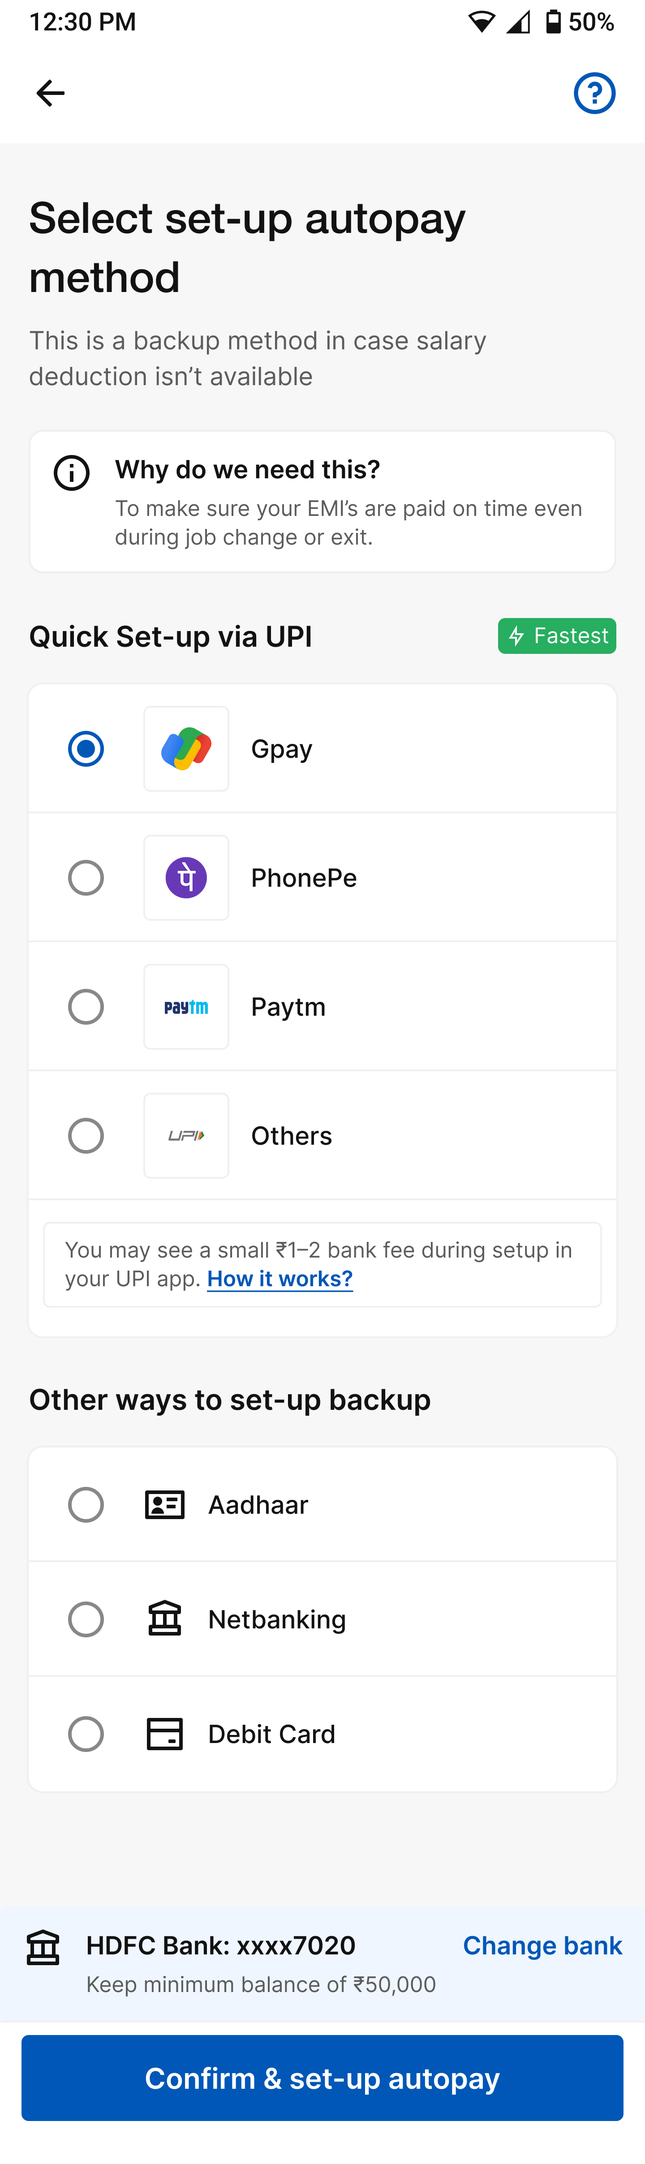
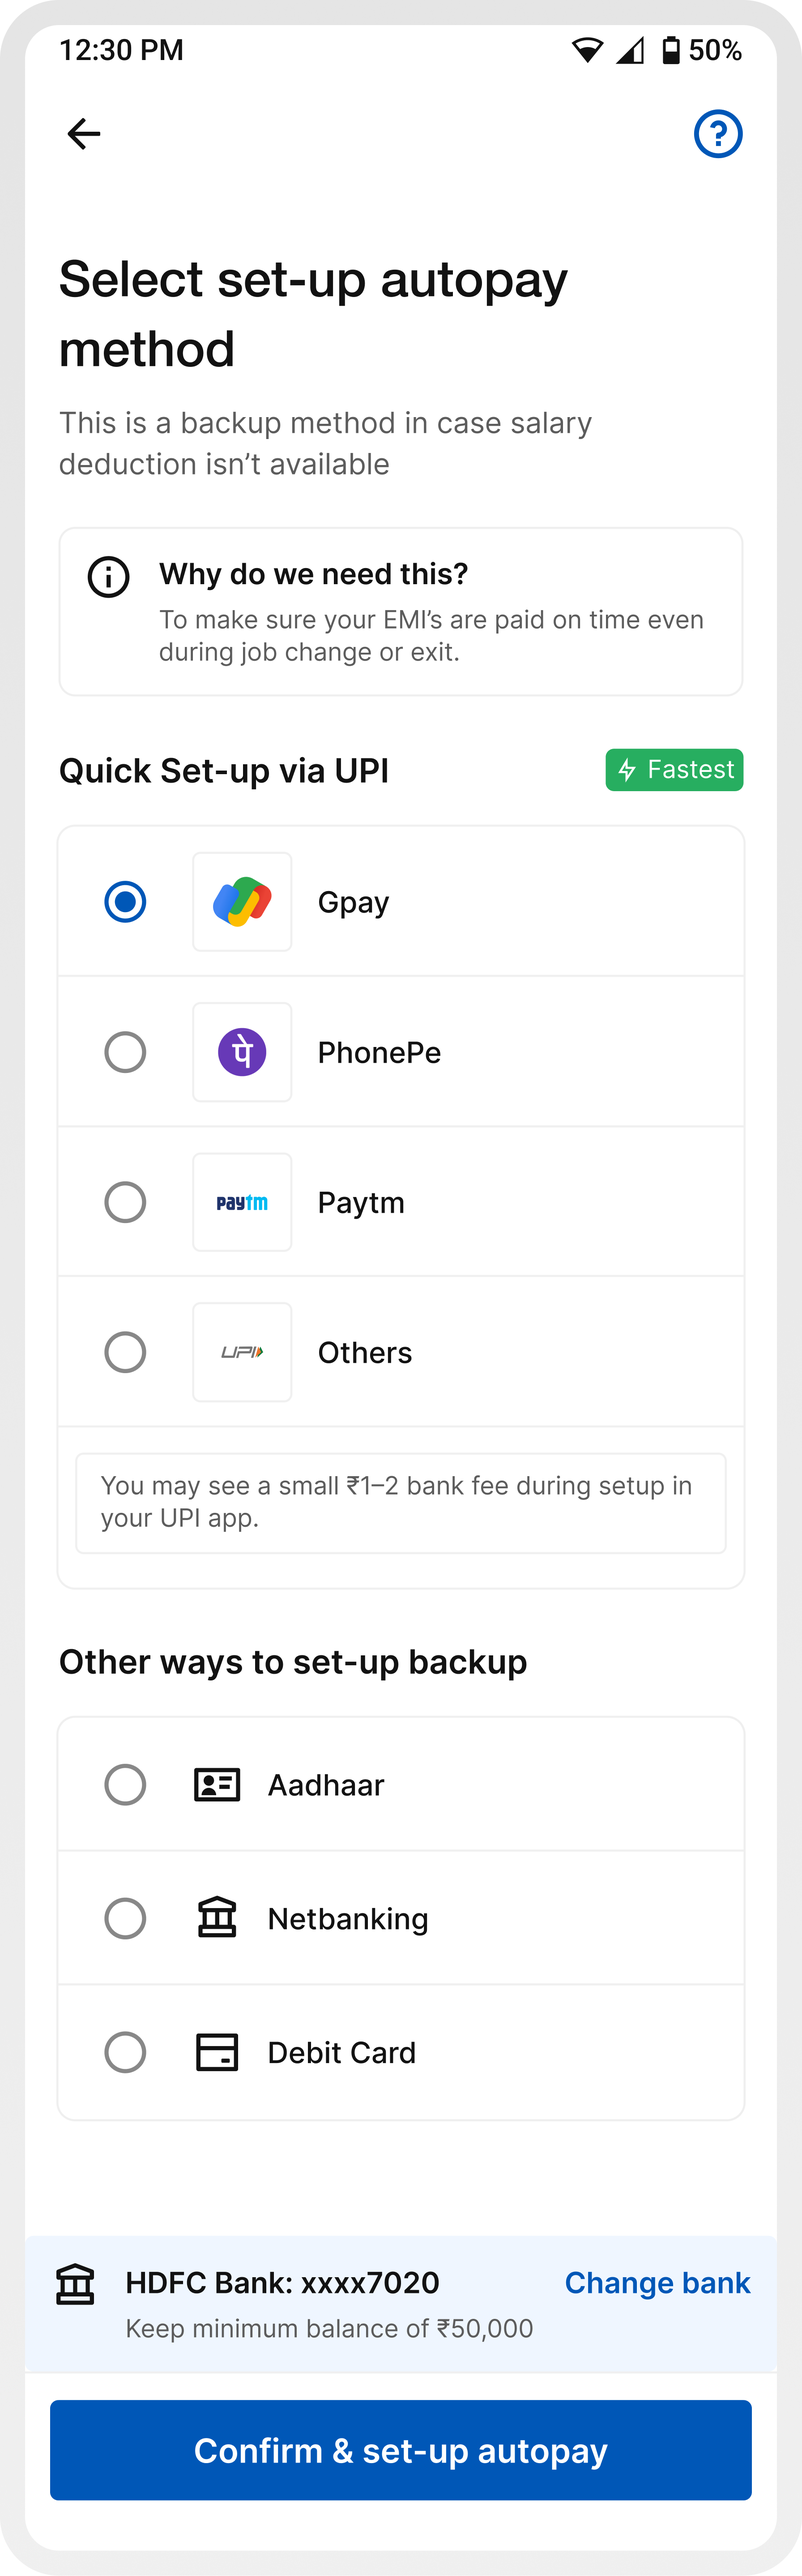
Update autopay GPay setup screen

diff --git a/lending-case-study.html b/lending-case-study.html
@@ -1154,7 +1154,7 @@
                 <div class="case-doc-optimisation-compare__frame case-doc-optimisation-compare__frame--new">
                   <img
                     class="case-doc-optimisation-compare__image"
-                    src="./assets/lending-setup-autopay-new-v1.png?v=20260623"
+                    src="./assets/lending-setup-autopay-new-v1.png?v=20260623-gpay"
                     alt="Redesigned setup autopay screen"
                     loading="lazy"
                   />
